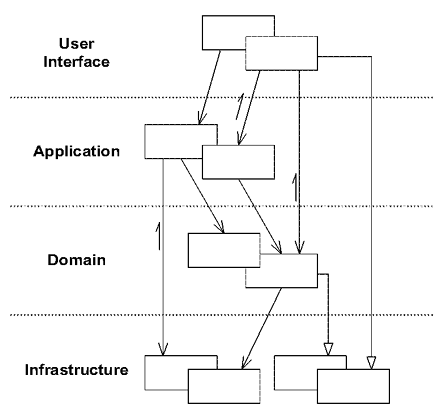
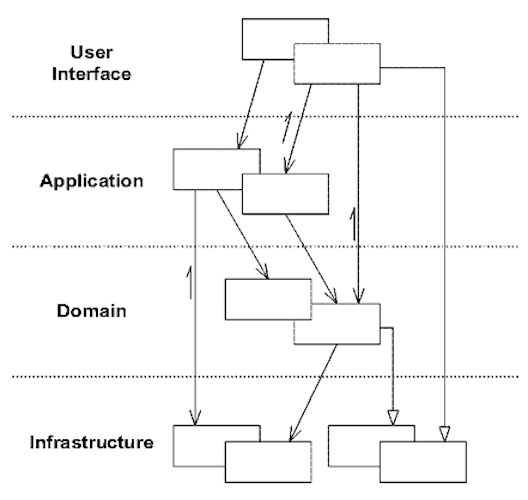
Second interation DDD

diff --git a/slides/09-ddd/09-ddd.md b/slides/09-ddd/09-ddd.md
@@ -16,7 +16,7 @@
   - Слои и их отношения
   - Преимущества DDD
 
-# Что является самым ценным в ПО?
+# Что является самым ценным в системе?
 
   - UX / GUI
   - Современные технологии
@@ -29,24 +29,30 @@
 ![](./pix/ddd-book.jpg)
 ![](./pix/EricEvans.jpg)
 
-# Основные идеи
-
  - Общий язык
  - Выделенный домен
+
+# Необходимые условия
+
+  - Нетривиальный домен
+  - Команда имеет опыт с ООП/ООД
+  - Имеется доступ к экспертам предметной области
+  - Вы используете итеративный процесс
 
 # Основные идеи
 
  - Помещение основного фокуса проекта на домен и его логику
+ - Интенсивное взаимодействие между командой и экспертами предметной области
  - Построение сложных дизайнов на основе модели домена
- - Интенсивное взаимодействие между командой и экспертами предметной области,
-   чтобы итеративно улучшать модель
+ - Итеративное улучшение модели
  - Архитектура не зависит от технологии
 
 # Layered Architecture
 
+![](./pix/DDD_Layered_Architecture.png)
 ![](./pix/lay_arch.png)
 
-# Dependency Injection
+# Dependency Inversion
 
 ```java
 public class Copy{
@@ -57,8 +63,6 @@ public class Copy{
 }
 ```
 
-# Dependency Injection
-
 ```java
 public class Copy{
     void copy(IReader r, IWriter w){
@@ -68,100 +72,92 @@ public class Copy{
 }
 ```
 
-# Architecture
+# Improved Architecture
 
 ![](./pix/arch.png)
 
-# Elements of DDD
-
-![](./pix/ddd-elements.png)
-
 # Слой Domain
 
-Ответственность:
+__Ответственность__
 
  - Представляет концепцию бизнеса
  - Инкапсулирует бизнес-логику и знания предметной области
 
-Типичные классы:
+__Типичные классы__
 
  - Entities, Value Objects, Repositories, Factories, Services
 
-Связь с другими слоями:
+__Связь с другими слоями__
 
  - Domain используется в Presentation
 
 # Слой Presentation
 
-Ответственность:
+__Ответственность__
 
  - Собирает ввод от пользователя из GUI
  - Управляет UI views
  - Транслирует объекты Domain в презентационные объекты
 
-Типичные классы:
+__Типичные классы__
 
  - Presenters, Controllers, Translators, Интерфейсы для UI
 
-Связь с другими слоями:
+__Связь с другими слоями__
 
  - Управляет UI
  - Использует Domain и Infrastructure
 
 # Слой Infrastructure
 
-Ответственность:
+__Ответственность__
 
- - Сохранение
- - ORM
- - Кэширование
+ - Сохранение, ORM, Кэширование
+ - Взаимодействие с внешними сервисами
 
-Типичные классы:
+__Типичные классы__
 
  - Adapters, Translators, Service Agents, Facades, O/R Mappers
 
-Связь с другими слоями:
+__Связь с другими слоями__
 
  - Реализует интерфейсы, объявленные в Domain и Presentation
 
 # Слой UI
 
-Ответственность:
+__Ответственность__
 
  - Показать информацию пользователю
  - Реализовать интерфейсы, объявленные в слое Presentation
  - Вызвать Application для создания объектов presenters и сделать инъекцию views
 
-Типичные классы:
+__Типичные классы__
 
  - Web pages, Win Forms, User Controls
 
-Связь с другими слоями:
+__Связь с другими слоями__
 
  - Реализует интерфейсы, объявленные в Presentation
  - Вызывает Application для создания Presenters
 
 # Слой Application
 
-Ответственность:
+__Ответственность__
 
  - Создает объекты Presentation, делает инъекцию UI и Infrastructure
  - Создает объекты Domain и делает инъекцию Infrastructure
 
-Типичные классы:
+__Типичные классы__
 
  - ApplicationProfile, PresenterFactory
 
-Связь с другими слоями:
+__Связь с другими слоями__
 
  - Создает объекты Presentation, Domain и Infrastructure
 
-# Необходимые условия
+# Elements of DDD
 
-  - Нетривиальный домен
-  - Команда имеет опыт с ООП/ООД
-  - Имеется доступ к экспертам предметной области
-  - Вы используете итеративный процесс
+![](./pix/ddd-elements.png)
 
 # Что дает DDD
 
